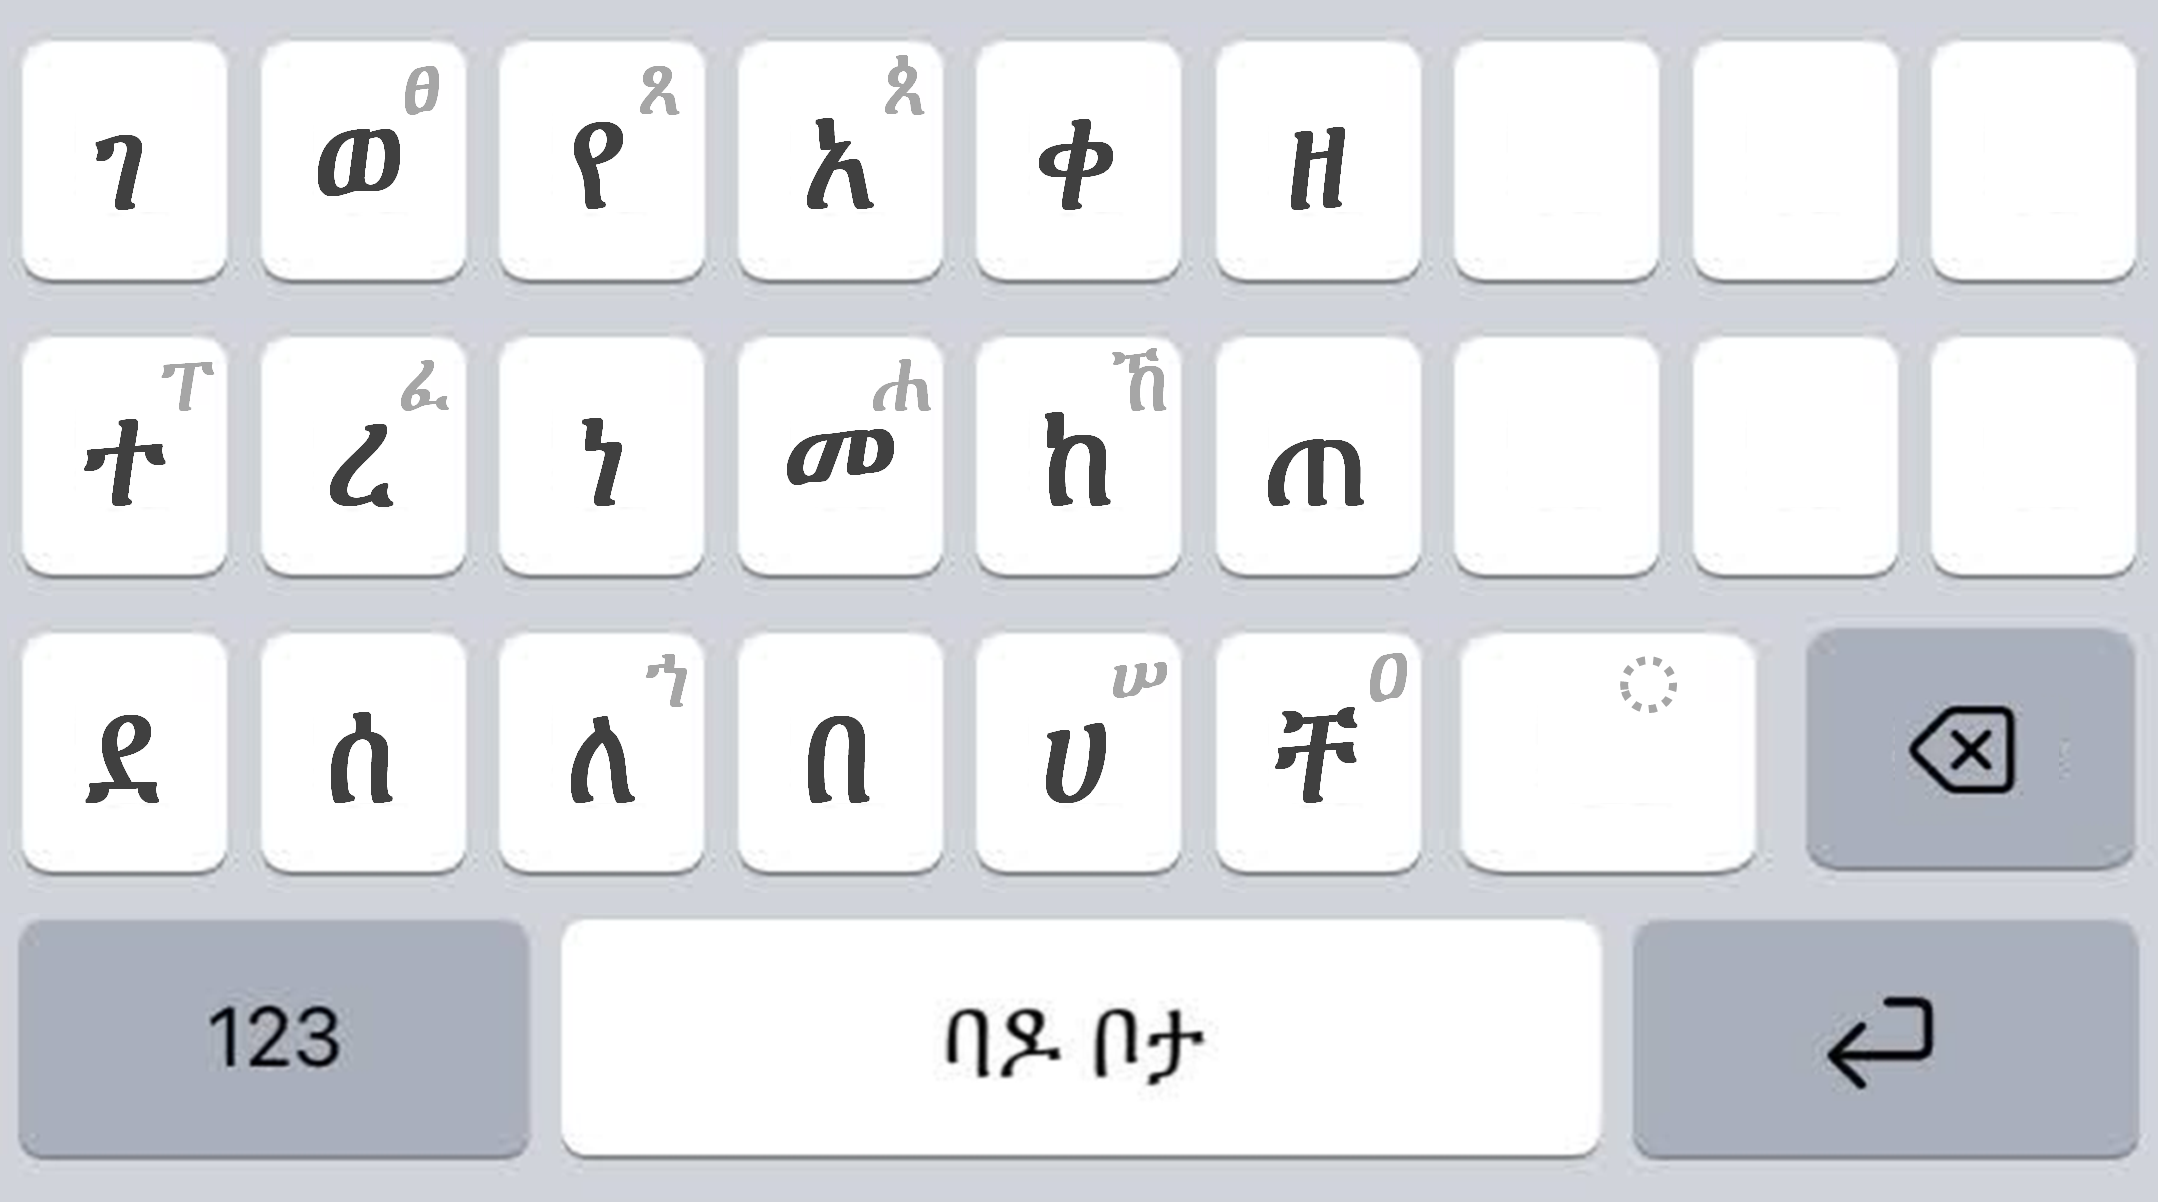
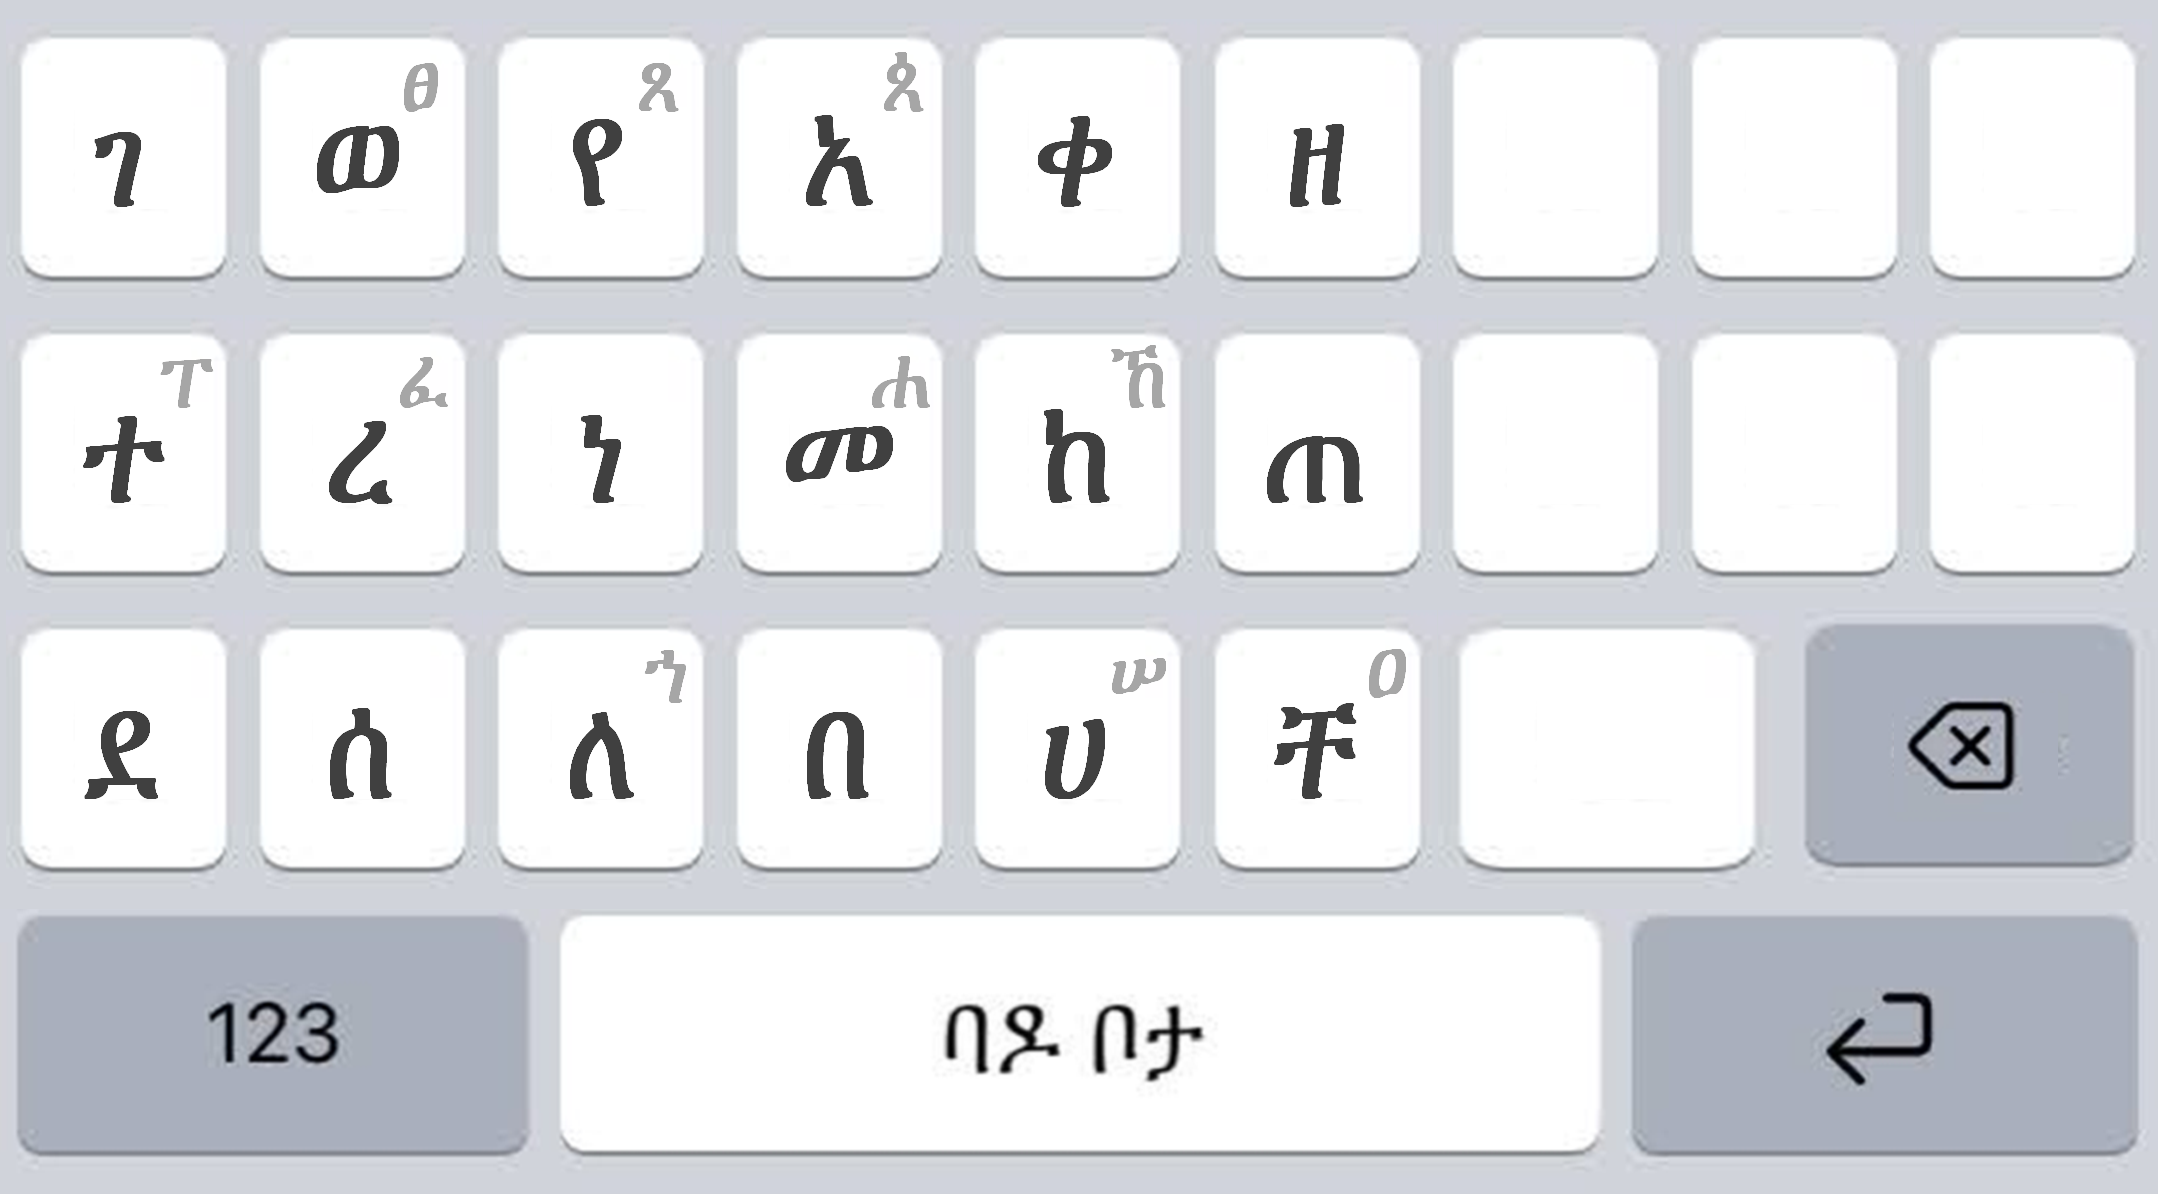
Add files via upload

diff --git a/mobile_demo.html b/mobile_demo.html
@@ -109,6 +109,20 @@
   font-weight: 400 !important;
 }
 
+/* 확장키 우상단 점선 원 */
+.key[data-role="next"] { position: relative; }
+.key[data-role="next"] .hint-circle {
+  position: absolute;
+  top: 22%;
+  right: 30%;
+  font-size: 24px;
+  font-weight: 700;
+  color: #999;
+  pointer-events: none;
+  display: block;   /* 기본 상태에서 보이게 */
+}
+
+
 </style>
 
 </head>
@@ -168,7 +182,7 @@
       <button class="key noLabel"><span class="lbl">ሀሠ</span></button>
       <button class="key noLabel"><span class="lbl">ቸዐ</span></button>
       <div class="doubleSlot">
-        <button class="key vowel ghost" data-role="next"><span class="lbl"></span></button>
+        <button class="key vowel ghost" data-role="next"><span class="lbl"></span><span class="hint-circle">◌</span></button>		
         <button class="key ghost" data-role="backspace"><span class="lbl"></span></button>
       </div>
     </div>
@@ -413,6 +427,9 @@ kb.addEventListener('click',(e)=>{
       const el = kb.querySelector(sel);
       if(el) el.style.color = '#999';
     });
+	const h = kb.querySelector('[data-role="next"] .hint-circle');
+	if(h) h.style.display = 'block';
+
   }
 
   function updatePreviews(){
@@ -435,6 +452,9 @@ kb.addEventListener('click',(e)=>{
     const el = kb.querySelector(`[data-vowel="${key}"] .lbl`);
     if(el) el.style.color = '#1a73e8';
     });
+	const h = kb.querySelector('[data-role="next"] .hint-circle');
+	if(h) h.style.display = 'none';
+
   }
 
   // updates after any click and on load
